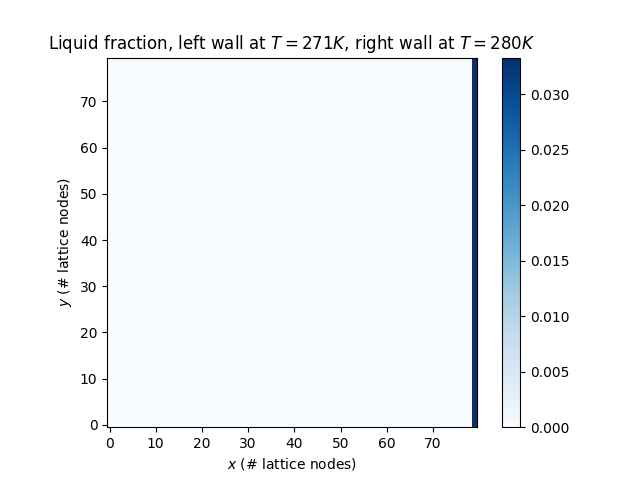
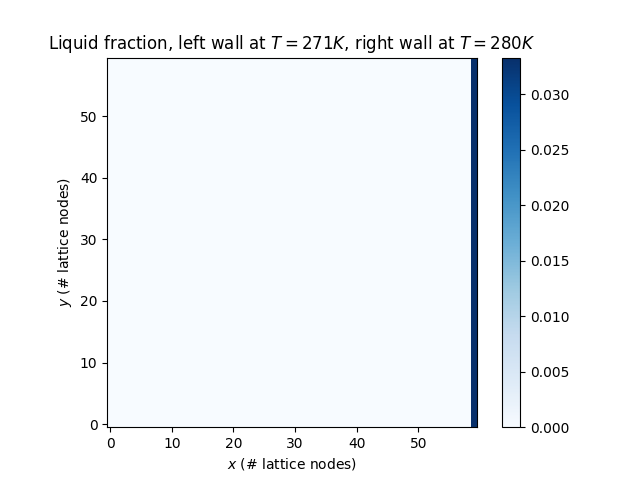
Commit 1 8maa

diff --git a/hsource_sq_cav.py b/hsource_sq_cav.py
@@ -12,10 +12,10 @@ pd.set_option("display.max_rows", None, "display.max_columns", None)
 
 # Define constants
 # Physical parameters
-L = 0.0075            # m
+L = 0.01            # m
 H = L            # m
 g = 9.81            # m/s^2
-Time = 10           # s
+Time = 20           # s
 nu = 1e-6           # m^2/s
 alpha = 1.44e-7     # m^2/s
 rho0 = 1e3          # kg/m^3
@@ -42,7 +42,7 @@ Ma = 0.1
 Lambda = 1/4
 tau_plus = 0.55
 rho0_sim = 1
-Ny = 80
+Ny = 10
 
 dx_sim = 1          # simulation length
 dt_sim = 1          # simulation time
@@ -95,8 +95,8 @@ T_dim = np.zeros((Nx, Ny))              # Dimensionless simulation temperature
 f_l = np.zeros((Nx, Ny))                # Liquid fraction
 
 # Temperature BCS
-T_BC_H = np.ones(Ny) * beta * (T_H - T0)
-T_BC_C = np.ones(Ny) * beta * (T_C - T0)
+T_dim_H = np.ones(Ny) * beta * (T_H - T0)
+T_dim_C = np.ones(Ny) * beta * (T_C - T0)
 
 def easy_view(nr, arr):
     idx = ["idx" for i in arr[1, :]]
@@ -342,61 +342,92 @@ def decompose_f_i(f_i):
     return f_plus, f_minus
 
 
-def temperature(T, alpha, ux, uy, T_BC_C, T_BC_H):
+def temperature(T, alpha, Lat, c_p, beta, ux, uy, T_dim_C, T_dim_H, f_l_old_tstep):
     T_new = np.zeros((Nx, Ny))
+    h = np.zeros((Nx, Ny))
+    f_l = f_l_old_tstep
+
+    def liq_fraction(T_new, f_l):
+        h = c_p * (T_new / beta + T0) + Lat * f_l
+
+        if h < h_s:
+            f_l = 0
+        elif h > h_l:
+            f_l = 1
+        else:
+            f_l = (h - h_s) / (h_l - h_s)
+
+        return f_l
 
     for j in range(1, Ny-1):
         for i in range(1, Nx-1):
-            T_new[i, j] = (1 - 6 * alpha) * T[i, j] + (2 * alpha - ux[i, j]) * T[i+1, j] \
-                          + (2 * alpha + ux[i, j]) * T[i-1, j] + (2 * alpha - uy[i, j]) * T[i, j+1] \
-                          + (2 * alpha + uy[i, j]) * T[i, j-1] + (ux[i, j] / 4 + uy[i, j] / 4 - alpha / 2) * T[i+1, j+1] \
-                          + (-ux[i, j] / 4 + uy[i, j] / 4 - alpha / 2) * T[i-1, j+1] + (ux[i, j] / 4 - uy[i, j] / 4 - alpha / 2) * T[i+1, j-1] \
-                          + (-ux[i, j] / 4 - uy[i, j] / 4 - alpha / 2) * T[i-1, j-1]
+            f_l_old_iter = -10
+            while True:
+                T_new[i, j] = (1 - 6 * alpha) * T[i, j] + (2 * alpha - ux[i, j]) * T[i+1, j] \
+                              + (2 * alpha + ux[i, j]) * T[i-1, j] + (2 * alpha - uy[i, j]) * T[i, j+1] \
+                              + (2 * alpha + uy[i, j]) * T[i, j-1] + (ux[i, j] / 4 + uy[i, j] / 4 - alpha / 2) * T[i+1, j+1] \
+                              + (-ux[i, j] / 4 + uy[i, j] / 4 - alpha / 2) * T[i-1, j+1] + (ux[i, j] / 4 - uy[i, j] / 4 - alpha / 2) * T[i+1, j-1] \
+                              + (-ux[i, j] / 4 - uy[i, j] / 4 - alpha / 2) * T[i-1, j-1] - beta * Lat / c_p * (f_l[i, j] - f_l_old_tstep[i, j])
+
+                f_l[i, j] = liq_fraction(T_new[i, j], f_l[i, j])
+
+                if np.abs(f_l[i, j] - f_l_old_iter) < 1e-3:
+                    break
+
+                f_l_old_iter = f_l[i, j]
 
     # T BCs
-    T_new[0, 1:Ny-1] = 8/15 * T_BC_C[1:Ny-1] + 2/3 * T_new[1, 1:Ny-1] - 1/5 * T_new[2, 1:Ny-1]
-    T_new[-1, 1:Ny-1] = 8/15 * T_BC_H[1:Ny-1] + 2/3 * T_new[-2, 1:Ny-1] - 1/5 * T_new[-3, 1:Ny-1]
+    #### Moeten ook een heat sink krijgen
+    for j in range(1, Ny-1):
+        f_l_old_iter = -10
+        while True:
+            T_new[0, j] = 8 / 15 * T_dim_H[j] + 2 / 3 * T_new[1, j] - 1 / 5 * T_new[2, j] - beta * Lat / c_p * (f_l[0, j] - f_l_old_tstep[0, j])
+            f_l[0, j] = liq_fraction(T_new[0, j], f_l[0, j])
+
+            if np.abs(f_l[0, j] - f_l_old_iter) < 1e-3:
+                break
+
+            f_l_old_iter = f_l[0, j]
+
+        # f_l_old_iter = -10
+        # while True:
+        #     T_new[-1, j] = 8 / 15 * T_dim_H[j] + 2 / 3 * T_new[-2, j] - 1 / 5 * T_new[-3, j] - beta * Lat / c_p * (f_l[0, j] - f_l_old_tstep[0, j])
+        #     f_l[-1, j] = liq_fraction(T_new[-1, j], f_l[-1, j])
+        #
+        #     if np.abs(f_l[-1, j] - f_l_old_iter) < 1e-3:
+        #         break
+        #
+        #     f_l_old_iter = f_l[-1, j]
+
+    # T_new[0, 1:Ny-1] = 8 / 15 * T_dim_C[1:Ny - 1] + 2 / 3 * T_new[1, 1:Ny - 1] - 1 / 5 * T_new[2, 1:Ny - 1]
+    # T_new[-1, 1:Ny-1] = 8 / 15 * T_dim_H[1:Ny - 1] + 2 / 3 * T_new[-2, 1:Ny - 1] - 1 / 5 * T_new[-3, 1:Ny - 1]
 
     # Adiabatic BCs
-    T_new[:, 0] = 3/2 * T_new[:, 1] - 1/2 * T_new[:, 2]
-    T_new[:, -1] = 3/2 * T_new[:, -2] - 1/2 * T_new[:, -3]
+    for i in range(0, Nx):
+        f_l_old_iter = -10
+        while True:
+            T_new[i, 0] = 3/2 * T_new[i, 1] - 1/2 * T_new[i, 2] - beta * Lat / c_p * (f_l[i, 0] - f_l_old_tstep[i, 0])
+            f_l[i, 0] = liq_fraction(T_new[i, 0], f_l[i, 0])
 
-    return T_new
+            if np.abs(f_l[i, 0] - f_l_old_iter) < 1e-3:
+                break
 
+            f_l_old_iter = f_l[i, 0]
 
-def enthalpy(T_dim, h_s, h_l, f_l):
-    h = c_p * (T_dim / beta + T0) + Lat * f_l
-    # print(h)
-    # print(h_s)
-    # print(h_l)
+        f_l_old_iter = -10
+        while True:
+            T_new[i, -1] = 3/2 * T_new[i, -2] - 1/2 * T_new[i, -3] - beta * Lat / c_p * (f_l[i, -1] - f_l_old_tstep[i, -1])
+            f_l[i, -1] = liq_fraction(T_new[i, -1], f_l[i, -1])
 
-    for j in range(0, Ny):
-        for i in range(0, Nx):
-            if h[i, j] < h_s:
-                f_l[i, j] = 0
-            elif h[i, j] > h_l:
-                f_l[i, j] = 1
-            else:
-                f_l[i, j] = (h[i, j] - h_s) / (h_l - h_s)
-                # print(f_l[i, j])
+            if np.abs(f_l[i, -1] - f_l_old_iter) < 1e-3:
+                break
 
-                # x = 0
-                # while True:
-                #     x += 1
-                #     h[i, j] = c_p * (T_dim[i, j] / beta + T0) + Lat * f_l[i, j]
-                #     f_l_new = (h[i, j] - h_s) / (h_l - h_s)
-                #     if x in [1, 2, 3, 4, 5, 6, 7, 8, 9, 10]:
-                #         print(h[i, j])
-                #         print(f_l_new)
-                #
-                #     if np.abs(f_l[i, j] - f_l_new) < 0.05:
-                #         print('no')
-                #         f_l[i, j] = f_l_new
-                #         break
-                #
-                #     f_l[i, j] = f_l_new
+            f_l_old_iter = f_l[i, -1]
 
-    return f_l
+    # T_new[:, 0] = 3/2 * T_new[:, 1] - 1/2 * T_new[:, 2]
+    # T_new[:, -1] = 3/2 * T_new[:, -2] - 1/2 * T_new[:, -3]
+
+    return T_new, f_l
 
 
 # Buoyancy force
@@ -418,9 +449,9 @@ for t in range(Nt):
     uy = f_l * (np.sum(f_minus[:, :] * c_i[:, 1], axis=2) / rho_sim + F_buoy[:, :, 1] / 2)
 
     # Temperature
-    T_dim = temperature(T_dim, alpha_sim, ux, uy, T_BC_C, T_BC_H)
-
-    f_l = enthalpy(T_dim, h_s, h_l, f_l)
+    T_dim, f_l = temperature(T_dim, alpha_sim, Lat, c_p, beta, ux, uy, T_dim_C, T_dim_H, f_l)
+    easy_view(1, T_dim / beta + T0)
+    easy_view(2, f_l)
 
     # New equilibrium distribution
     f_eq_plus, f_eq_minus, Si = f_equilibrium(w_i, rho_sim, ux, uy, c_i, q, c_s, F_buoy)
@@ -432,16 +463,16 @@ for t in range(Nt):
     f_i = streaming(Nx, Ny, f_i, f_star)
     f_plus, f_minus = decompose_f_i(f_i)
 
-    if t % 2500 == 0:
+    if t % 50 == 0:
         # Heatmaps
         plt.figure(2)
         plt.clf()
-        plt.imshow(f_l.T, cmap=cm.Blues, origin='lower')
+        plt.imshow(f_l.T, cmap=cm.Blues, origin='lower', aspect=1.0)
         plt.xlabel('$x$ (# lattice nodes)')
         plt.ylabel('$y$ (# lattice nodes)')
-        plt.title(f'Liquid fraction, left wall at $T={T_C}K$, right wall at $T={T_H}K$')
+        plt.title(f'Liquid fraction, left wall at $T={T_C}K$, right wall at $T={T_H}K$, $t={t/Nt*Time}s$')
         plt.colorbar()
-        plt.savefig(f"Figures/hsource_sq_cav/heatmap_fl_time{Time}_{t%2500}_highres.png")
+        plt.savefig(f"Figures/hsource_sq_cav/1/heatmap_fl_time{Time}_{t/Nt*Time}_test.png")
 
 stop = time.time()
 print(stop-start)
@@ -479,62 +510,62 @@ y = np.linspace(dx, H-dx, len(uy))
 # plt.legend('Velocity vector')
 # plt.savefig("Figures/hsource_sq_cav/arrowplot_temp" + str(t-2) + ".png")
 
-# # Vector plot
-# plt.figure(np.int(t/200)+2, dpi=300)
-# plt.quiver(Cu*ux.T, Cu*uy.T)
-# plt.xlabel('$x$ (# lattice nodes)')
-# plt.ylabel('$y$ (# lattice nodes)')
-# plt.title(f'$u$ in pipe with left wall at $T={T_H}K$ and right wall at $T={T_C}K$')
-# # plt.legend('Velocity vector')
-# plt.savefig(f"Figures/hsource_sq_cav/arrowplot_time{Time}_test.png")
-#
+# Vector plot
+plt.figure(np.int(t/200)+2, dpi=300)
+plt.quiver(Cu*ux.T, Cu*uy.T)
+plt.xlabel('$x$ (# lattice nodes)')
+plt.ylabel('$y$ (# lattice nodes)')
+plt.title(f'$u$ in pipe with left wall at $T={T_H}K$ and right wall at $T={T_C}K$')
+# plt.legend('Velocity vector')
+plt.savefig(f"Figures/hsource_sq_cav/arrowplot_time{Time}_test.png")
+
 # Heatmaps
-plt.figure(2)
+plt.figure(1)
 plt.clf()
 plt.imshow(f_l.T, cmap=cm.Blues, origin='lower')
 plt.xlabel('$x$ (# lattice nodes)')
 plt.ylabel('$y$ (# lattice nodes)')
-plt.title(f'Liquid fraction, left wall at $T={T_H}K$, right wall at $T={T_C}K$')
+plt.title(f'Liquid fraction, left wall at $T={T_H}K$, right wall at $T={T_C}K$, $t={Nt/t}$')
 plt.colorbar()
-plt.savefig(f"Figures/hsource_sq_cav/heatmap_fl_time{Time}_test_highres.png")
-# # Heatmaps
-# plt.figure(2)
-# plt.clf()
-# plt.imshow(Cu*ux.T, cmap=cm.Blues, origin='lower')
-# plt.xlabel('$x$ (# lattice nodes)')
-# plt.ylabel('$y$ (# lattice nodes)')
-# plt.title(f'$u_x$ in cavity with left wall at $T={T_H}K$ and right wall at $T={T_C}K$')
-# plt.colorbar()
-# plt.savefig(f"Figures/hsource_sq_cav/heatmap_ux_time{Time}_test.png")
-#
-# plt.figure(3)
-# plt.clf()
-# plt.imshow(np.flip(Cu*uy, axis=1).T, cmap=cm.Blues)
-# plt.xlabel('$x$ (# lattice nodes)')
-# plt.ylabel('$y$ (# lattice nodes)')
-# plt.title(f'$u_y$ in cavity with left wall at $T={T_H}K$ and right wall at $T={T_C}K$')
-# plt.colorbar()
-# plt.savefig(f"Figures/hsource_sq_cav/heatmap_uy_time{Time}_test.png")
-#
-# plt.figure(5)
-# plt.clf()
-# plt.imshow(np.flip(rho_sim, axis=1).T, cmap=cm.Blues)
-# plt.xlabel('$x$ (# lattice nodes)')
-# plt.ylabel('$y$ (# lattice nodes)')
-# plt.title(f'$\\rho$ in cavity with left wall at $T={T_H}K$ and right wall at $T={T_C}K$')
-# plt.colorbar()
-# plt.savefig(f"Figures/hsource_sq_cav/heatmap_rho_time{Time}_test.png")
-#
-# ## Temperature heatmap
-# plt.figure(4)
-# plt.clf()
-# plt.imshow(np.flip(T.T, axis=0), cmap=cm.Blues)
-# plt.xlabel('$x$ (# lattice nodes)')
-# plt.ylabel('$y$ (# lattice nodes)')
-# plt.title('$T$ in cavity with left wall at $T=298K$ and right wall at $T=288K$. No flow.')
-# plt.colorbar()
-# plt.savefig(f"Figures/hsource_sq_cav/heatmap_T_time{Time}_test.png")
-#
+plt.savefig(f"Figures/hsource_sq_cav/heatmap_fl_time{Time}_test_highhighres.png")
+# Heatmaps
+plt.figure(2)
+plt.clf()
+plt.imshow(Cu*ux.T, cmap=cm.Blues, origin='lower')
+plt.xlabel('$x$ (# lattice nodes)')
+plt.ylabel('$y$ (# lattice nodes)')
+plt.title(f'$u_x$ in cavity with left wall at $T={T_H}K$ and right wall at $T={T_C}K$')
+plt.colorbar()
+plt.savefig(f"Figures/hsource_sq_cav/heatmap_ux_time{Time}_test.png")
+
+plt.figure(3)
+plt.clf()
+plt.imshow(np.flip(Cu*uy, axis=1).T, cmap=cm.Blues)
+plt.xlabel('$x$ (# lattice nodes)')
+plt.ylabel('$y$ (# lattice nodes)')
+plt.title(f'$u_y$ in cavity with left wall at $T={T_H}K$ and right wall at $T={T_C}K$')
+plt.colorbar()
+plt.savefig(f"Figures/hsource_sq_cav/heatmap_uy_time{Time}_test.png")
+
+plt.figure(5)
+plt.clf()
+plt.imshow(np.flip(rho_sim, axis=1).T, cmap=cm.Blues)
+plt.xlabel('$x$ (# lattice nodes)')
+plt.ylabel('$y$ (# lattice nodes)')
+plt.title(f'$\\rho$ in cavity with left wall at $T={T_H}K$ and right wall at $T={T_C}K$')
+plt.colorbar()
+plt.savefig(f"Figures/hsource_sq_cav/heatmap_rho_time{Time}_test.png")
+
+## Temperature heatmap
+plt.figure(4)
+plt.clf()
+plt.imshow(np.flip(T.T, axis=0), cmap=cm.Blues)
+plt.xlabel('$x$ (# lattice nodes)')
+plt.ylabel('$y$ (# lattice nodes)')
+plt.title('$T$ in cavity with left wall at $T=298K$ and right wall at $T=288K$. No flow.')
+plt.colorbar()
+plt.savefig(f"Figures/hsource_sq_cav/heatmap_T_time{Time}_test.png")
+
 # ## Temperature line plot
 # plt.figure(0)
 # plt.plot(x, T[:, 0])

diff --git a/sq_cav_th_trt.py b/sq_cav_th_trt.py
@@ -12,7 +12,7 @@ pd.set_option("display.max_rows", None, "display.max_columns", None)
 
 # Define constants
 # Physical parameters
-L = 0.0075            # m
+L = 0.0112            # m
 H = L            # m
 g = 9.81            # m/s^2
 Time = 10           # s
@@ -36,7 +36,7 @@ Ma = 0.1
 Lambda = 1/4
 tau_plus = 0.55
 rho0_sim = 1
-Ny = 40
+Ny = 20
 
 dx_sim = 1          # simulation length
 dt_sim = 1          # simulation time
@@ -423,13 +423,13 @@ T = T_dim / beta + T0
 # plt.figure(np.int(t/200)+1)
 x = np.linspace(dx, L-dx, len(ux))
 y = np.linspace(dx, H-dx, len(uy))
-# fig = ff.create_streamline(x, y, ux.T, uy.T)
-# fig.show()
-# plt.xlabel('$x$ (# lattice nodes)')
-# plt.ylabel('$y$ (# lattice nodes)')
-# plt.title('Velocity profile in pipe with hot plate for $x < L/2$ and cold plate for $x > L/2$. \n $p>0$')
-# plt.legend('Velocity vector')
-# plt.savefig("Figures/sq_cav_th/arrowplot_temp" + str(t-2) + ".png")
+fig = ff.create_streamline(x, y, ux.T, uy.T)
+fig.show()
+plt.xlabel('$x$ (# lattice nodes)')
+plt.ylabel('$y$ (# lattice nodes)')
+plt.title('Velocity profile in pipe with hot plate for $x < L/2$ and cold plate for $x > L/2$. \n $p>0$')
+plt.legend('Velocity vector')
+plt.savefig(f"Figures/flow_test/streamplot_time{Time}_test.png")
 
 # Vector plot
 plt.figure(np.int(t/200)+2, dpi=300)
